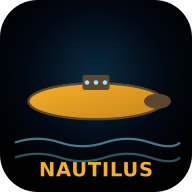
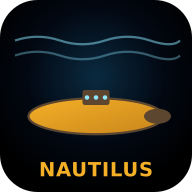
feat: copie fiche+QR dans la modale, partage en PNG, vagues au-dessus du sous-marin
1) Modale "Agrandir" : le bouton Copier copie la fiche ET le QR
Il appelait copyTextToClipboard() (texte seul) alors que la carte
d'embarquement utilisait deja copyMatelotToClipboard() (text/plain +
text/html avec le QR en <img>). Les deux boutons partagent desormais la
meme fonction et le meme message "Fiche + QR copiés".

2) Boutons Partager : une seule image PNG contenant toute la fiche
Nouvelle fonction buildMatelotCardPng() : dessine sur un canvas le titre,
le lien, le matelot, l'equipage, le code puis le QR et la mention
IMPORTANT, dans les couleurs du jeu (900x930 px).
Les deux boutons Partager (carte d'embarquement et modale) envoient ce
fichier unique au lieu d'un QR nu accompagne d'un texte que certaines
applications de messagerie ignorent. Le texte reste joint en parallele
pour celles qui le gerent.
Le QR est pose sur un aplat blanc avec marge : sans cela il serait
illisible sur le fond sombre de la carte.
Replis inchanges : .txt puis texte simple si le partage de fichier est
refuse, telechargement du PNG si l'API de partage est absente.

3) Icone : les vagues passent au-dessus du sous-marin
assets/icon.svg reorganise (vagues a y=108/148, sous-marin descendu a
y=310). Seul cet ordre change, le dessin est identique par ailleurs.
Les 5 PNG sont regeneres depuis cette source unique : icon-192,
icon-512, icon-maskable-512 (contenu dans les 78 % centraux),
apple-touch-icon (aplati sur #020812) et favicon-32.
[…]

diff --git a/index.html b/index.html
@@ -2274,13 +2274,12 @@ function qrDataUri(text, opts){
     const text = buildNoteText(name, code, teamName);
     const fileName = 'Mission-Nautilus-' + code + '.txt';
 
-    // 1) Web Share API (mobile moderne) : on joint l'image du QR, plus
-    // parlante qu'un .txt et directement enregistrable dans la galerie.
+    // 1) Web Share API : on partage UNE image PNG contenant toute la fiche
+    // (texte + QR), directement enregistrable dans la galerie.
     try{
       if(navigator.canShare){
         try{
-          const qrUri = qrDataUri(code, { ecl: 'H' });
-          const pngBlob = await qrToPngBlob(qrUri, 600);
+          const pngBlob = await buildMatelotCardPng(name, code, teamName);
           const png = new File([pngBlob], 'matelot-' + code + '.png', { type: 'image/png' });
           if(navigator.canShare({ files: [png] })){
             await navigator.share({
@@ -2292,7 +2291,7 @@ function qrDataUri(text, opts){
           }
         }catch(qrErr){
           if(qrErr && qrErr.name === 'AbortError') return { ok: false, reason: 'cancelled' };
-          console.warn('partage du QR impossible, repli texte :', qrErr);
+          console.warn('partage de la fiche impossible, repli texte :', qrErr);
         }
         const file = new File([text], fileName, { type: 'text/plain' });
         if(navigator.canShare({ files: [file] })){
@@ -2428,6 +2427,72 @@ function qrDataUri(text, opts){
     });
   }
 
+  /* Genere UNE image PNG contenant toute la fiche matelot : le texte
+     (MISSION NAUTILUS, lien, matelot, equipage, code) et le QR en dessous.
+     C'est ce fichier unique qui est partage, plutot qu'un QR nu accompagne
+     d'un texte que certaines applications ignorent. */
+  function buildMatelotCardPng(name, code, teamName){
+    return new Promise((resolve, reject) => {
+      const W = 900, PAD = 56, QR = 380;
+      const img = new Image();
+      img.onload = () => {
+        try{
+          const lines = [
+            { t: 'MISSION NAUTILUS', size: 44, weight: '900', color: '#f5b027', gap: 14 },
+            { t: '=================', size: 30, weight: '700', color: '#5d7286', gap: 34 },
+            { t: 'Lien : ' + siteUrl(),        size: 24, weight: '600', color: '#cfe3f0', gap: 26 },
+            { t: 'Matelot : ' + (name || '—'), size: 28, weight: '800', color: '#ffffff', gap: 26 },
+            { t: 'Equipage : ' + (teamName || '—'), size: 28, weight: '800', color: '#ffffff', gap: 26 },
+            { t: 'Code Matelot : ' + code,     size: 34, weight: '900', color: '#f5b027', gap: 34 }
+          ];
+          const textH = lines.reduce((a, l) => a + l.size + l.gap, 0);
+          const noteH = 30 + 26;
+          const H = PAD + textH + QR + 34 + noteH + PAD;
+
+          const cv = document.createElement('canvas');
+          cv.width = W; cv.height = H;
+          const ctx = cv.getContext('2d');
+
+          // Fond dans les couleurs du jeu
+          const g = ctx.createLinearGradient(0, 0, W, H);
+          g.addColorStop(0, '#0a2a40');
+          g.addColorStop(1, '#020812');
+          ctx.fillStyle = g;
+          ctx.fillRect(0, 0, W, H);
+          ctx.strokeStyle = 'rgba(245,176,39,.45)';
+          ctx.lineWidth = 4;
+          ctx.strokeRect(2, 2, W - 4, H - 4);
+
+          // Texte
+          let y = PAD;
+          ctx.textBaseline = 'top';
+          for(const l of lines){
+            ctx.font = l.weight + ' ' + l.size + 'px Arial, Helvetica, sans-serif';
+            ctx.fillStyle = l.color;
+            ctx.fillText(l.t, PAD, y);
+            y += l.size + l.gap;
+          }
+
+          // QR centre, sur fond blanc (indispensable pour qu'il reste lisible)
+          const qx = (W - QR) / 2;
+          ctx.fillStyle = '#fff';
+          ctx.fillRect(qx - 14, y - 14, QR + 28, QR + 28);
+          ctx.imageSmoothingEnabled = false;
+          ctx.drawImage(img, qx, y, QR, QR);
+          y += QR + 34;
+
+          ctx.font = '700 22px Arial, Helvetica, sans-serif';
+          ctx.fillStyle = '#ff9b8f';
+          ctx.fillText('IMPORTANT : Le code est personnel et à usage unique.', PAD, y);
+
+          cv.toBlob(b => b ? resolve(b) : reject(new Error('canvas vide')), 'image/png');
+        }catch(e){ reject(e); }
+      };
+      img.onerror = () => reject(new Error('QR illisible'));
+      img.src = qrDataUri(code, { ecl: 'H' });
+    });
+  }
+
   async function viewMatelotQr(qrUrl, code){
     // Le QR encode le Code Matelot en clair (pas un lien) : la camera du
     // telephone affiche le code, que le matelot recopie dans "Reprendre ta mission".
@@ -2462,9 +2527,10 @@ function qrDataUri(text, opts){
       try{
         // Convertit le QR (SVG en data: URI) en PNG via un canvas.
         // Pas de fetch reseau : le QR est genere localement.
-        const blob = await qrToPngBlob(qrUrl, 600);
+        // Une seule image PNG : la fiche complete (texte + QR).
+        const blob = await buildMatelotCardPng(
+          currentMatelot?.name, code, currentMatelot?.teamName);
         const file = new File([blob], 'matelot-' + code + '.png', { type: 'image/png' });
-        // Meme texte que les boutons Copier / Partager, + l'image du QR.
         const noteText = buildNoteText(currentMatelot?.name, code, currentMatelot?.teamName);
         if(navigator.canShare && navigator.canShare({ files: [file] })){
           await navigator.share({
@@ -2485,7 +2551,7 @@ function qrDataUri(text, opts){
           a.href = url; a.download = 'matelot-' + code + '.png';
           document.body.appendChild(a); a.click(); a.remove();
           setTimeout(() => URL.revokeObjectURL(url), 5000);
-          showToast('📷 QR telecharge', 'linear-gradient(135deg,#075c39,#0a8a5a)');
+          showToast('📷 Fiche PNG téléchargée', 'linear-gradient(135deg,#075c39,#0a8a5a)');
         }
       }catch(err){
         if(err && err.name === 'AbortError') return;
@@ -2502,10 +2568,14 @@ function qrDataUri(text, opts){
 
     // Bouton copier
     document.getElementById('qrModalCopy').addEventListener('click', async () => {
-      const text = buildNoteText(currentMatelot?.name, code, currentMatelot?.teamName);
-      const ok = await copyTextToClipboard(text);
-      if(ok) showToast('📋 Informations copiées dans le presse-papier', 'linear-gradient(135deg,#075c39,#0a8a5a)');
-      else window.prompt('Copiez ces informations :', text);
+      const ok = await copyMatelotToClipboard(
+        currentMatelot?.name, code, currentMatelot?.teamName, resumeLink);
+      if(ok){
+        showToast('📋 Fiche + QR copiés', 'linear-gradient(135deg,#075c39,#0a8a5a)');
+      }else{
+        window.prompt('Copiez ces informations :',
+          buildNoteText(currentMatelot?.name, code, currentMatelot?.teamName));
+      }
     });
 
   }

diff --git a/sw.js b/sw.js
@@ -1,6 +1,6 @@
 // Service worker minimal pour PWA Mission Nautilus
 // Strategie : network-first pour les pages, cache-first pour assets statiques
-const CACHE_NAME = 'nautilus-v25';
+const CACHE_NAME = 'nautilus-v26';
 const PRECACHE = [
   './',
   './index.html',
